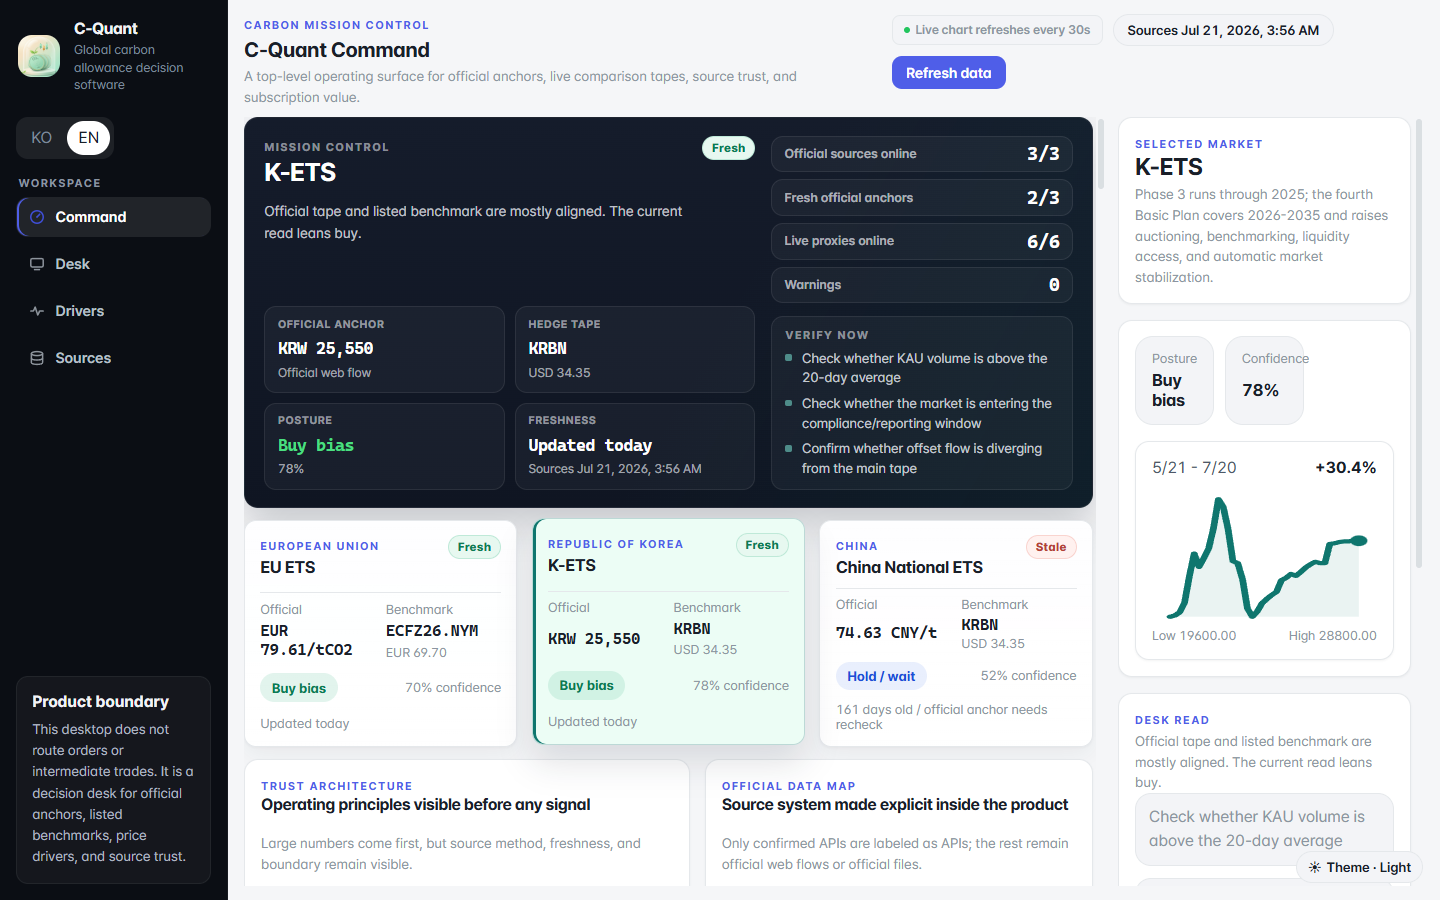
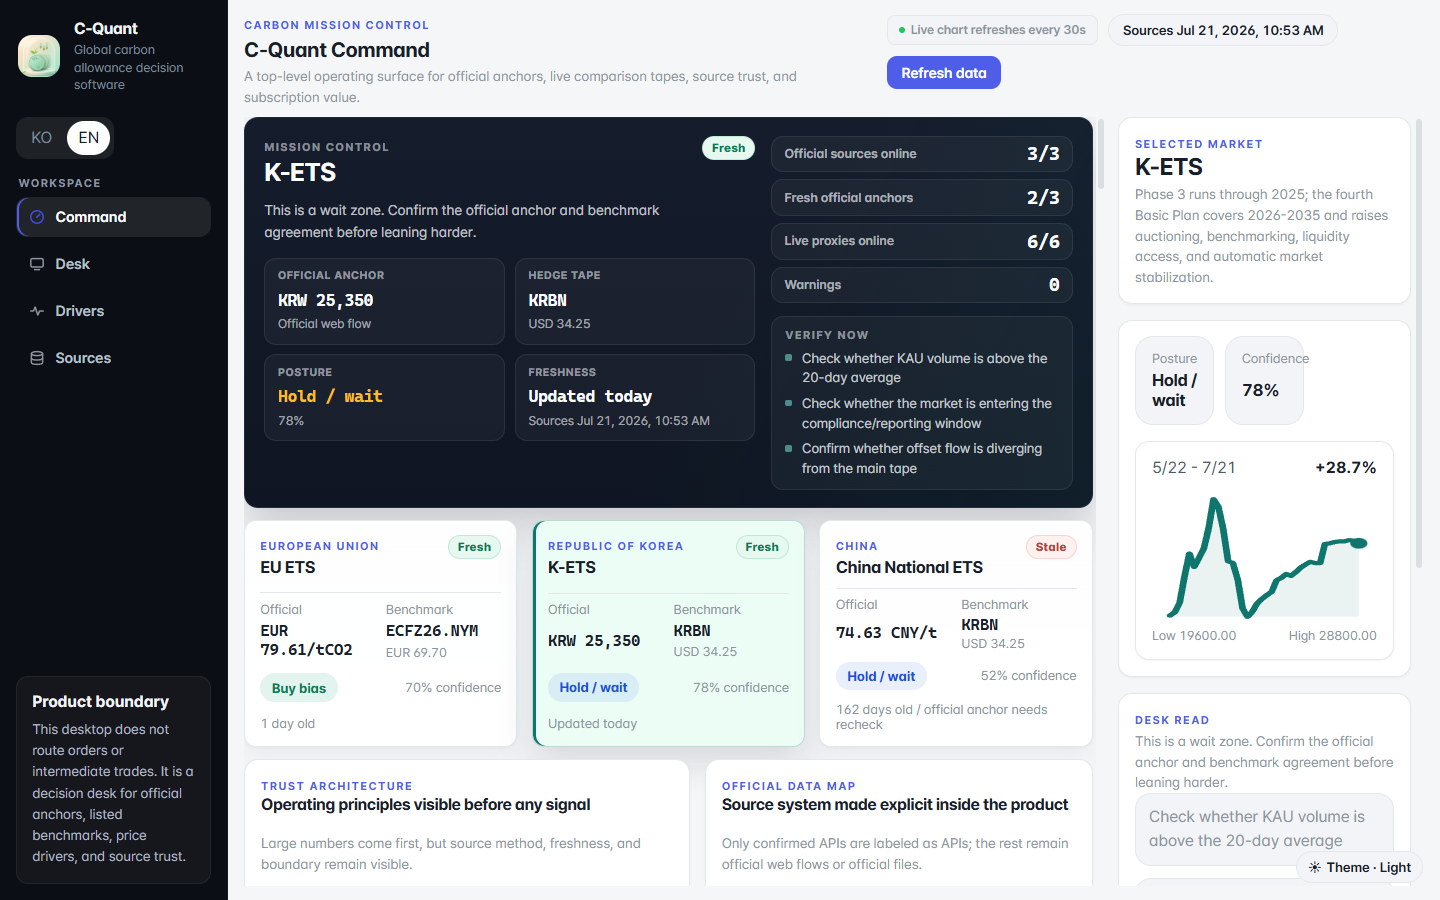
ui: light default theme; fix Command hero void and K-ETS source label
- Default theme reverts to light for new installs (theme.tsx +
  electron/appSettings.js). Saved preferences and the toggle unchanged.
- Command hero: drop margin-top:auto on the left stat grid and
  top-align the two hero columns, so the stat tiles sit under the
  summary instead of being pushed to the card base — no more mid-card
  vertical void when the right column (health + verify list) is taller.
- getOfficialSourceName now returns the card's actual sourceName for
  k-ets, so the label matches the access method: 'KRX ETS information
  platform' on the keyless web flow, 'KRX ETS sample API' with a key.

Reviewed all four surfaces + KO locale + watchlist drawer via Electron
captures. Gates: type-check, lint, format, 234+55 tests, ci:verify,
build, bundle, e2e — all green.

diff --git a/src/lib/theme.tsx b/src/lib/theme.tsx
@@ -82,11 +82,11 @@ function applyThemeToDocument(theme: ThemePreference, reducedMotion: boolean) {
 export function ThemeProvider({ children }: { children: ReactNode }) {
   // Initial values come from localStorage so the first paint is correct;
   // they're then reconciled with the persisted Electron settings.
-  // Dark is the default desk experience; "system"/"light" remain one
+  // Light is the default desk experience; "system"/"dark" remain one
   // toggle away and any previously saved preference wins.
   const [theme, setThemeState] = useState<ThemePreference>(() => {
-    const raw = readLocalString(THEME_STORAGE_KEY, "dark");
-    return raw === "light" || raw === "system" ? raw : "dark";
+    const raw = readLocalString(THEME_STORAGE_KEY, "light");
+    return raw === "dark" || raw === "system" ? raw : "light";
   });
   const [locale, setLocaleState] = useState<AppLocale>(() => {
     const raw = readLocalString(LOCALE_STORAGE_KEY, readSystemLocale());

diff --git a/src/App.tsx b/src/App.tsx
@@ -650,7 +650,9 @@ function getOfficialSourceName(locale: AppLocale, card: ConnectedSourceCard | nu
     case "eu-ets-official":
       return t(locale, "EEX EUA 경매 보고서", "EEX EUA auction report");
     case "k-ets-official":
-      return t(locale, "KRX ETS 샘플 API", "KRX ETS sample API");
+      // Reflect whichever path served the data (web flow vs Open API
+      // sample) instead of a fixed label.
+      return localizeText(getUiLocale(locale), card.sourceName);
     case "cn-ets-official":
       return t(locale, "MEE 탄소시장 발표 피드", "MEE carbon-market release feed");
     default:

diff --git a/src/styles.css b/src/styles.css
@@ -721,6 +721,7 @@ textarea::placeholder {
 
 .command-hero {
   display: grid;
+  align-items: start;
   grid-template-columns: minmax(0, 1.55fr) minmax(300px, 0.95fr);
   gap: 1rem;
   padding: 1.1rem 1.2rem;
@@ -757,11 +758,7 @@ textarea::placeholder {
 .command-hero-main {
   display: flex;
   flex-direction: column;
-  gap: 1rem;
-}
-
-.command-hero-main .command-hero-metrics {
-  margin-top: auto;
+  gap: 0.9rem;
 }
 
 .command-hero-side {

diff --git a/electron/appSettings.js b/electron/appSettings.js
@@ -15,7 +15,7 @@ const ALLOWED_THEMES = new Set(["light", "dark", "system"]);
 const ALLOWED_LOCALES = new Set(["ko", "en"]);
 
 const DEFAULTS = {
-  theme: "dark",
+  theme: "light",
   locale: "ko",
   reducedMotion: false,
   surface: "command",

diff --git a/CHANGELOG.md b/CHANGELOG.md
@@ -4,6 +4,25 @@ All notable changes to C-Quant. We follow [Keep a Changelog](https://keepachange
 
 ## [Unreleased]
 
+### Changed
+
+- Light is the default theme again for new installs (renderer +
+  Electron settings defaults; saved preferences and the toggle are
+  unchanged).
+
+### Fixed
+
+- Command hero no longer leaves a large vertical void in its left
+  column: the stat tiles were pinned to the card base with
+  `margin-top: auto`, so when the right column (health tiles + verify
+  list) was taller, the left copy and tiles were pushed apart. The
+  columns now top-align and the tiles sit directly under the summary.
+- The K-ETS official source name now reflects the path that actually
+  served the data ("KRX ETS information platform" on the keyless web
+  flow, "KRX ETS sample API" with a configured key) instead of a fixed
+  "sample API" label that contradicted the "Official web flow" access
+  method shown beside it.
+
 ## [1.9.0] — 2026-07-21
 
 The live-desk release: official Korean prices stream in-session.
